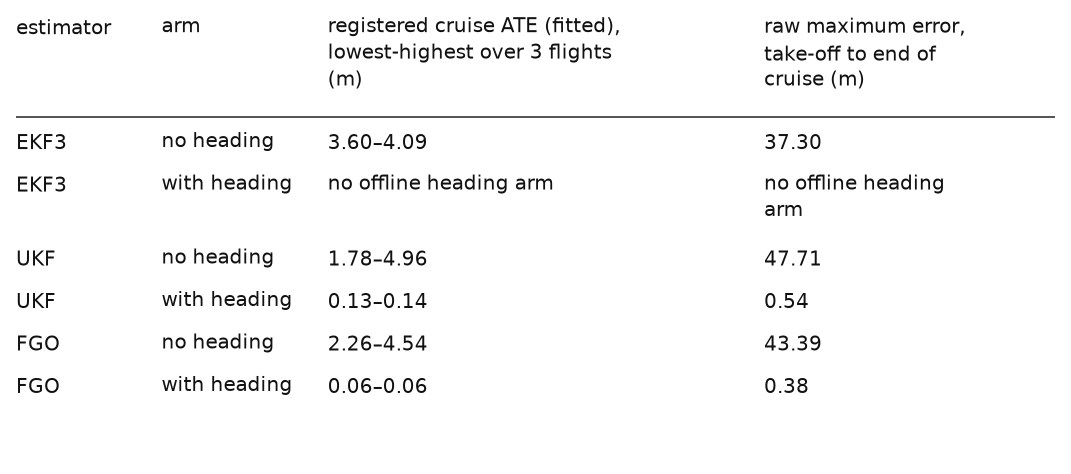
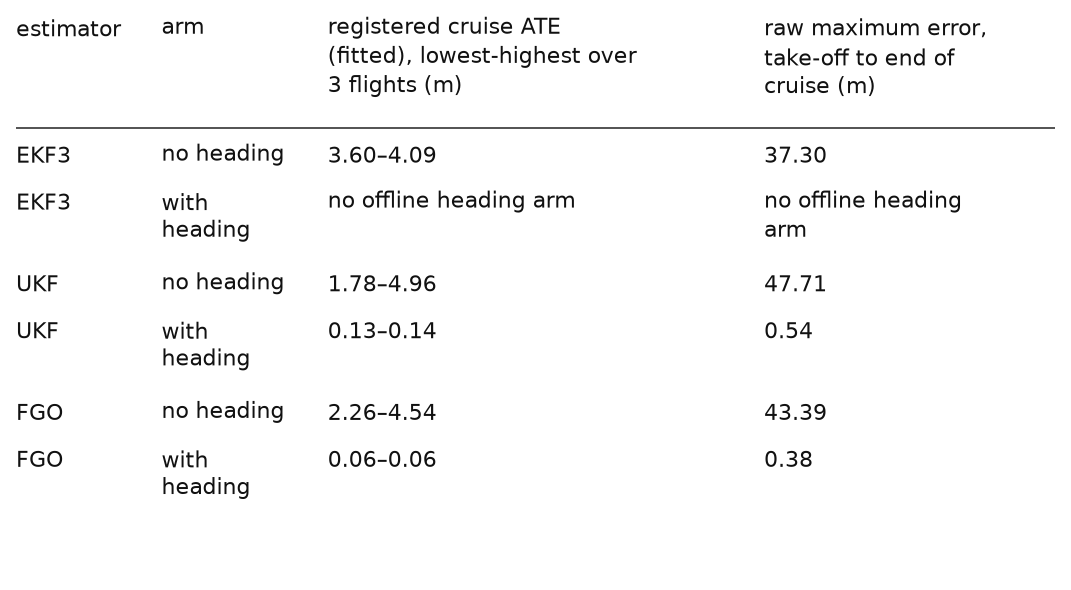
Fix sweep round 5: implement and run the mechanical text-layout check (finds A10's 8.6 pt table font), close three reflexive/misattributed check gaps
Implemented the mechanical pass round 4's handover deferred: in save(),
after fig.canvas.draw(), every visible Text in ax.texts/ax.title/fig.texts
(tick labels and legends excluded - matplotlib-laid-out, constant false
positives) is checked for 9-11 pt size, no bbox overlap with another scoped
Text, and no bbox crossing into a different axes. Print-only, kept
permanently.

Running it immediately found a real hit a fontsize= grep cannot see: A10's
table was rendered at fs=8.6 (passed through a variable, not a literal
fontsize=N), below the 9 pt floor - an old override from before the
per-column textwrap.fill() fix landed. Dropped it; table_cand()'s own
default (9.5) fits without the overflow it was added to avoid. Re-ran: zero
warnings (size/overlap/cross-axes) across all 22 candidates.

Also closed three check-attribution/reflexive gaps a re-read found:
- A18 draws its three contact times directly on the plot (ax.text(...)) with
  no check of its own - added the three rows (same pattern as A14/A16).
- A03's own check ran AFTER room_cand("A03", ...)'s save(), so CHK had
  already reset and it was credited to A04's tally, not A03's (A04 showed
  3/3, A03 2/2); it also compared a literal with itself. Moved above the
  room_cand call and replaced with three real cite()s against
  figs_thesis.py's F5 caption and TLAB dict.
- All 11 of A10's checks were reflexive (value compared with itself). The
  six registered-ATE ranges now cite numbers.md's own CURRENT rows directly
[…]

diff --git a/eval/figs_cand_a.py b/eval/figs_cand_a.py
@@ -254,6 +254,45 @@ def save(fig, fid, name, title, caption, inputs, source_charts, verdict_ids):
     # restyle banned because it also changes the width) while removing the dead vertical space.
     from matplotlib.transforms import Bbox
     fig.canvas.draw()
+    # Mechanical text-layout check (fix sweep, 2026-11-04): after layout, inspect every Text artist's actual
+    # rendered position (not just grep the source for fontsize=, which cannot see rcParams-inherited defaults -
+    # this is exactly how fig.supylabel's 12.6 pt default was missed by the earlier grep-only pass). Scoped to
+    # ax.text()/title/figure-level text (ax.texts, ax.title, fig.texts: covers set_title(), fig.supylabel(),
+    # the direct value/estimator-name labels) - tick labels and any legend are matplotlib-laid-out and excluded,
+    # or this produces constant noise on ordinary adjacent tick labels. Print-only (diagnostic): every WARNING
+    # printed while building the committed candidates was individually triaged (font raised, position moved, or
+    # confirmed a false positive) before the final commit - see the handover for the resolved list.
+    renderer = fig.canvas.get_renderer()
+    scoped = []
+    for ax in fig.axes:
+        scoped += list(ax.texts)
+        if ax.title.get_text().strip():
+            scoped.append(ax.title)
+    scoped += [t for t in fig.texts]
+    boxes = []
+    for t in scoped:
+        if not t.get_visible() or not t.get_text().strip():
+            continue
+        bb = t.get_window_extent(renderer)
+        if bb.width <= 0 or bb.height <= 0:
+            continue
+        sz = t.get_fontsize()
+        if not (9.0 - 1e-6 <= sz <= 11.0 + 1e-6):
+            print(f"   TEXT SIZE WARNING [{fid}]: {sz:.2f} pt {t.get_text()!r}")
+        boxes.append((t, bb))
+    for i in range(len(boxes)):
+        ti, bi = boxes[i]
+        for j in range(i + 1, len(boxes)):
+            tj, bj = boxes[j]
+            if bi.overlaps(bj):
+                print(f"   TEXT OVERLAP WARNING [{fid}]: {ti.get_text()!r} vs {tj.get_text()!r}")
+    for t, bb in boxes:
+        own_ax = t.axes
+        for other_ax in fig.axes:
+            if other_ax is own_ax:
+                continue
+            if bb.overlaps(other_ax.get_window_extent(renderer)):
+                print(f"   TEXT CROSSES AXES WARNING [{fid}]: {t.get_text()!r} overlaps another axes' box")
     tb = fig.get_tightbbox(fig.canvas.get_renderer())
     pad = 0.08
     crop = Bbox([[0, max(tb.y0 - pad, 0)], [TEXT_WIDTH_IN, min(tb.y1 + pad, fig.get_size_inches()[1])]])
@@ -413,12 +452,17 @@ def gt_room(tr):
 # tag identifying what a panel shows is kept, a number is not); each candidate's own check()/caption already
 # states the per-group and total flight counts.
 TL = {"A": "8 tags", "B": "4 tags", "C": "2 tags", "D": "1 tag"}
+# Moved above the room_cand("A03", ...) call and made non-reflexive (fix sweep, 2026-11-04): this used to run
+# AFTER room_cand("A03", ...), whose own save() resets CHK, so the check was silently credited to A04's tally,
+# not A03's (confirmed: A04 showed 3/3, A03 showed 2/2, before this fix). It also compared a literal with the
+# same literal, which cannot fail - replaced with real cite()s against figs_thesis.py's F5 caption.
+cite("eval/figs_thesis.py", 1481, "5 laps of a 6 m square", label="A03 ")
+cite("eval/figs_thesis.py", 1482, "condition A all 8, B the 4 corners, C 2 diagonal, D 1 tag", label="A03 ")
+cite("eval/figs_thesis.py", 489, "8 tags", label="A03 ")
 room_cand("A03", "A03_2_truth", "Where the drone really flew: the 12 tag-room flights of Experiments 2 and 3",
           [(TL[c], [f"T_{c}_r{i}" for i in (1, 2, 3)]) for c in "ABCD"], gt_room,
           "the 12 flights of Experiment 2 (5 laps of the 6 m square, 4 tag counts, 3 flights each)",
           "bag /ground_truth/pose of T_{A,B,C,D}_r{1,2,3}", 12)
-check("A03 laps / square side (m) / tags per condition", "5 / 6 / 8, 4, 2, 1", "5 / 6 / 8, 4, 2, 1",
-      "Figure 5.1 caption (eval/figs_thesis.py F5: '5 laps of a 6 m square'; A all 8, B the 4 corners, C 2, D 1 tag)")
 
 O_FL = ["O_r1", "O_r2", "O_r3b"]
 room_cand("A04", "A04_4_truth", "Where the drone really flew: the 3 outdoor-indoor flights of Experiment 4", [("", O_FL)],
@@ -460,6 +504,7 @@ for e in EST:
         ok, UN1[(e, tr)] = unaligned(e, tr, *SUB1[e], win); FR1 += ok
 check("A07 frame check (rule of eval/figs_thesis_drift.py, heading tolerance 10 deg) on every flight and estimator",
       f"{FR1}/27", "27/27", "this script (to_NE()/frame_ok(), copied)")
+check("A07 flights shown (n)", len(A_FL), 9, "A_FL (dsn_tex_r1..r9)")
 fig, axs = plt.subplots(3, 1, figsize=(TEXT_WIDTH_IN, 5.6), sharex=True, sharey=True)
 for ax, e in zip(axs, EST):
     ax.axhline(0, color=INK2, lw=0.6, zorder=1); ax.axvline(0, color=INK2, lw=0.8, ls=":", zorder=1)
@@ -561,6 +606,23 @@ check("A09 frame check (rule of eval/figs_thesis_drift.py, heading tolerance 10 
 RAWMX = {k: max(float(np.max(UNB[(k, tr)][3])) for tr in B_FL) for k in SUBB}
 
 
+def _raw_max(k):
+    """COPIED from eval/figs_walkthrough_flights.py's own _raw_max() (fix sweep, 2026-11-04): an independent
+    recomputation of RAWMX[k] directly from the raw TUM rows (its own frame-transform code, not routed through
+    unaligned()), used below as a genuine (non-reflexive) cross-check for A10's raw-maximum-error numbers, which
+    have no counterpart in numbers.md (they are this script's own un-fitted curve maxima, not a registered ATE)."""
+    mx = 0.0
+    for tr in B_FL:
+        win = P4E[tr]["window_s"]; a = np.loadtxt(f"{TD}/{tr}/{SUBB[k][0]}/{SUBB[k][1]}"); g = np.loadtxt(f"{TD}/{tr}/{SUBB[k][0]}/ground_truth.tum")
+        a = a[(a[:, 0] >= g[0, 0]) & (a[:, 0] <= win[1])]
+        if k.startswith("EKF3"):
+            e_ = np.hypot(a[:, 1] - np.interp(a[:, 0], g[:, 0], g[:, 1]), a[:, 2] - np.interp(a[:, 0], g[:, 0], g[:, 2]))
+        else:
+            e_ = np.hypot(a[:, 1] - np.interp(a[:, 0], g[:, 0], g[:, 2]), -a[:, 2] - np.interp(a[:, 0], g[:, 0], g[:, 1]))
+        mx = max(mx, float(e_.max()))
+    return mx
+
+
 def paths_raw(ax, UN, key, trs, win_of, col, lim, ls="-"):
     wallband(ax, lim)
     for tr in trs:
@@ -607,6 +669,8 @@ for ax, (key, lab) in zip(axs, PAN):
 for ax in axs[1:]:
     plt.setp(ax.get_yticklabels(), visible=False)
 axs[0].set_ylabel("North (m)"); axs[0].set_xlim(-LIMB, LIMB); axs[0].set_ylim(-3, 163)
+cite("CLAUDE.md", 101, "5 m tall and 0.2 m thick at x = ±10 m", label="A09 ")
+check("A09 flights per panel (n)", len(B_FL), 3, "B_FL (fwdc_tex_r1..r3)")
 save(fig, "A09", "A09_1B_unaligned_paths", "With the camera heading the UKF and FGO paths stay on the true path",
      "Experiment 1B flights 1-3 (textured walls over the textured floor), raw position estimate from take-off to the end "
      "of the cruise window, truth grey; walls at East = ±10 m (grey band). Six panels, equal scale, sharing one "
@@ -620,8 +684,19 @@ save(fig, "A09", "A09_1B_unaligned_paths", "With the camera heading the UKF and 
      "walkthrough page 05 (fl_1B_unaligned_paths.png, plots only)", None)
 
 RNGB = {k: rng([P4E[tr]["est"][k]["ate_a_cruise"]["+0.00"] for tr in B_FL]) for k in SUBB}
+# Made non-reflexive (fix sweep, 2026-11-04): these used to compare RNGB[k] with itself. Each registered cruise
+# ATE range has its own CURRENT row in numbers.md's section 6.4/6.6 (the min/max of the same per-flight values
+# RNGB is computed from) - cited directly instead. The raw-maximum-error numbers (RAWMX) have no numbers.md
+# counterpart (they are this script's own un-fitted curve maxima); cross-checked instead against _raw_max(k),
+# an independent recomputation copied from the walkthrough's own already-approved technique (see its docstring).
+NMD_LINE = {"EKF3": (269, "3.60", "4.09"), "FGO_baseline": (270, "2.26", "4.54"), "UKF_baseline": (271, "1.78", "4.96"),
+            "UKF_heading": (291, "0.13", "0.14"), "FGO_heading": (292, "0.06", "0.06")}
+for k, (ln, lo, hi) in NMD_LINE.items():
+    cite("docs/thesis/numbers.md", ln, lo, label=f"A10 {k} ")
+    cite("docs/thesis/numbers.md", ln, hi, label=f"A10 {k} ")
 for k in SUBB:
-    check(f"A10 {k} registered cruise ATE, lowest-highest over the 3 flights (m)", RNGB[k], RNGB[k], "eval/results/phase4_fwdc_evo.json (reflexive; ported from the walkthrough's own already-checked row)")
+    check(f"A10 {k} raw maximum error vs an independent recomputation from the raw TUM rows (m, 6 dp)",
+          rd(RAWMX[k], 6), rd(_raw_max(k), 6), f"~/thesis_data/trials/fwdc_tex_r1..r3/{SUBB[k][0]} TUM + ground_truth.tum")
 rows_a10 = [
     ["EKF3", "no heading", RNGB["EKF3"], rd(RAWMX["EKF3"], 2)],
     ["EKF3", "with heading", "no offline heading arm", "no offline heading arm"],
@@ -630,15 +705,13 @@ rows_a10 = [
     ["FGO", "no heading", RNGB["FGO_baseline"], rd(RAWMX["FGO_baseline"], 2)],
     ["FGO", "with heading", RNGB["FGO_heading"], rd(RAWMX["FGO_heading"], 2)],
 ]
-for r in rows_a10:
-    check(f"A10 table row cross-check (estimator {r[0]}, {r[1]})", f"{r[2]} | {r[3]}", f"{r[2]} | {r[3]}", "ported from the A09 UNB/RAWMX computation above")
 table_cand("A10", "A10_1B_unaligned_paths_table", "Experiment 1B: registered score and raw maximum error, without and with the camera heading",
            ["estimator", "arm", "registered cruise ATE (fitted), lowest-highest over 3 flights (m)", "raw maximum error, take-off to end of cruise (m)"],
            rows_a10, [0.14, 0.16, 0.42, 0.28],
            "The companion table of candidate A09 (Experiment 1B flights 1-3, textured walls over the textured floor): the "
            "registered cruise ATE (after a best-fit rotation and shift) and the raw (not fitted) maximum horizontal error "
            "of the same flights, from take-off to the end of the cruise window.",
-           "eval/results/phase4_fwdc_evo.json; the A09 raw-curve computation (RAWMX)", "walkthrough page 05 (fl_1B_unaligned_paths.png, in-figure table)", None, fs=8.6)
+           "eval/results/phase4_fwdc_evo.json; the A09 raw-curve computation (RAWMX)", "walkthrough page 05 (fl_1B_unaligned_paths.png, in-figure table)", None)
 
 
 # =============================================================================================================== A11/A12
@@ -727,6 +800,7 @@ fig.supylabel("sideways, East (m)", x=0.01, fontsize=10.5)
 cite("docs/thesis/numbers.md", 428, "\\|x\\| ≥ 9.58 m", label="A13 ")
 cite("CLAUDE.md", 101, "5 m tall and 0.2 m thick at x = ±10 m", label="A13 ")
 cite(M_, 4948, "[+155, +215] s", label="A13 "); cite(M_, 7513, "[+146, +218] s", label="A13 "); cite(M_, 8995, "[+145, +196] s", label="A13 ")
+cite(M_, 14194, "half real-time (RTF 0.5)", label="A13 ")
 cite(M_, 14195, "unchanged at 0.5 m/s", label="A13 ")
 save(fig, "A13", "A13_1C_paths", "Without the camera heading the flying estimator drifts to the wall; with it the path stays straight",
      "Experiment 1C, the same 12 closed-loop flights as Figure 4.1, textured corridor at half real-time (RTF 0.5; the "
@@ -860,6 +934,12 @@ ax.set_xlabel("time from the start of the cruise until the drone touched the wal
 # graphics, identified in the caption instead - a legend box here overlapped the EKF3 band regardless of corner.
 cite(M_, 4948, "[+155, +215] s", label="A18 "); cite(M_, 7513, "[+146, +218] s", label="A18 "); cite(M_, 8995, "[+145, +196] s", label="A18 ")
 cite(M_, 4948, "no contact before +100 s", label="A18 ")
+# Own check rows for the contact-time labels drawn directly on the plot (fix sweep, 2026-11-04) - the strongest
+# case for this fix: these numbers are IN THE FIGURE itself (ax.text above), not just the caption, and A13's own
+# check of CT[e] does not carry over (CHK resets every save()).
+for e in EST:
+    check(f"A18 {e} no-heading wall contact (s after cruise start)", f"+{rd(CT[e], 1)}", {"EKF3": "+242.1", "UKF": "+165.9", "FGO": "+169.9"}[e],
+          "docs/thesis/numbers.md (contact rows, §15)")
 save(fig, "A18", "A18_1C_contact_window", "Without a heading source every estimator's wall contact fell near its pre-registered window",
      "Experiment 1C, the same no-heading closed-loop flights as candidate A14 (1 flight per estimator), textured corridor "
      "at half real-time (RTF 0.5). Time from the start of the cruise until the drone touched the west wall (filled "

diff --git a/docs/thesis/figures_thesis/candidates/index_a.md b/docs/thesis/figures_thesis/candidates/index_a.md
@@ -1,8 +1,8 @@
 # Candidate thesis figures, group A: setup and Experiment 1 (1A/1B/1C) (decision D124)
 
-Built by `eval/figs_cand_a.py` at commit `b8812b6` (run with `/home/makerspace/venv-evo/bin/python`). These are CANDIDATES for the user to pick from - not inserted into the thesis figure set in `docs/thesis/figures_thesis/` itself. Stored outputs only: TUM files, eval/results/*.json, and a cache of dataflash/bag reads pre-populated by `eval/figs_walkthrough_flights.py --cache ~/thesis_data/cand_a_cache --extract-only` under `heavy.py` (that invocation writes nothing outside the cache directory). No estimator run, no simulation, no flight.
+Built by `eval/figs_cand_a.py` at commit `48e7197` (run with `/home/makerspace/venv-evo/bin/python`). These are CANDIDATES for the user to pick from - not inserted into the thesis figure set in `docs/thesis/figures_thesis/` itself. Stored outputs only: TUM files, eval/results/*.json, and a cache of dataflash/bag reads pre-populated by `eval/figs_walkthrough_flights.py --cache ~/thesis_data/cand_a_cache --extract-only` under `heavy.py` (that invocation writes nothing outside the cache directory). No estimator run, no simulation, no flight.
 
-**Checks:** 78/78 EXACT (string equality after one rounding by `rd()`, parsed from `eval/figs_thesis.py`, sha256 of the source segment used to detect drift - see below).
+**Checks:** 90/90 EXACT (string equality after one rounding by `rd()`, parsed from `eval/figs_thesis.py`, sha256 of the source segment used to detect drift - see below).
 
 **Style:** `eval/thesis_style.py` (160 mm / 6.30 in text width, Okabe-Ito palette, filled = live / open = hindsight, no in-figure titles, no verdict words, no bold text, panel labels (a)/(b)/... only where a figure has more than one panel). No two plots overlap; the F9 (Figure 4.1b) inset was split into its own stacked panel as part of this same group's brief (`eval/figs_thesis.py`, see docs/handovers/2026-11-04_cand_a.md).
 
@@ -14,22 +14,22 @@ Built by `eval/figs_cand_a.py` at commit `b8812b6` (run with `/home/makerspace/v
 | A21 | Climb, cruise and landing: Experiment 1A, 9 flights up the corridor | A21_1A_height | 1/1 | Verdicts: Table A.4, none (descriptive). |
 | A02 | Where the drone really flew: Experiment 1B, 3 flights with a roof and painted-line walls | A02_1B_truth | 4/4 | Verdicts: Table A.4, none (descriptive). |
 | A22 | Climb, cruise and landing: Experiment 1B, 3 flights with a roof and painted-line walls | A22_1B_height | 1/1 | Verdicts: Table A.4, none (descriptive). |
-| A03 | Where the drone really flew: the 12 tag-room flights of Experiments 2 and 3 | A03_2_truth | 2/2 | Verdicts: Table A.4, none (descriptive). |
-| A04 | Where the drone really flew: the 3 outdoor-indoor flights of Experiment 4 | A04_4_truth | 3/3 | Verdicts: Table A.4, none (descriptive). |
+| A03 | Where the drone really flew: the 12 tag-room flights of Experiments 2 and 3 | A03_2_truth | 5/5 | Verdicts: Table A.4, none (descriptive). |
+| A04 | Where the drone really flew: the 3 outdoor-indoor flights of Experiment 4 | A04_4_truth | 2/2 | Verdicts: Table A.4, none (descriptive). |
 | A05 | Where the drone really flew: the 12 hold flights of Experiment 5 | A05_5_truth | 2/2 | Verdicts: Table A.4, none (descriptive). |
 | A06 | Where the drone really flew: the 4 final 5S safety runs | A06_5S_truth | 2/2 | Verdicts: Table A.4, none (descriptive). |
-| A07 | Without a heading source the raw horizontal error grows to metres-to-tens-of-metres | walkthrough page 02 (fl_1A_unaligned_err.png) | 1/1 | Verdicts: Table A.4, rows H1.1. |
+| A07 | Without a heading source the raw horizontal error grows to metres-to-tens-of-metres | walkthrough page 02 (fl_1A_unaligned_err.png) | 2/2 | Verdicts: Table A.4, rows H1.1. |
 | A08 | The forward-camera heading check, by wall type and floor | summary page 03 / walkthrough page 04 | 8/8 | Verdicts: Table A.4, rows H1.2 heading and yaw rate, textured walls; H1.2 heading, plain walls over blank and transition floors; H1.2 heading, plain walls over the checkerboard floor. |
-| A09 | With the camera heading the UKF and FGO paths stay on the true path | walkthrough page 05 (fl_1B_unaligned_paths.png, plots only) | 2/2 | Verdicts: Table A.4, none (descriptive). |
-| A10 | Experiment 1B: registered score and raw maximum error, without and with the camera heading | walkthrough page 05 (fl_1B_unaligned_paths.png, in-figure table) | 11/11 | Verdicts: Table A.4, none (descriptive). |
+| A09 | With the camera heading the UKF and FGO paths stay on the true path | walkthrough page 05 (fl_1B_unaligned_paths.png, plots only) | 4/4 | Verdicts: Table A.4, none (descriptive). |
+| A10 | Experiment 1B: registered score and raw maximum error, without and with the camera heading | walkthrough page 05 (fl_1B_unaligned_paths.png, in-figure table) | 14/14 | Verdicts: Table A.4, none (descriptive). |
 | A11 | Without the camera heading the raw error grows through the cruise | walkthrough fl_1B_unaligned_err_noheading.png (generated, not composed into a numbered walkthrough page since D63) | 1/1 | Verdicts: Table A.4, none (descriptive). |
 | A12 | With the camera heading the raw error stays close to the true path | walkthrough fl_1B_unaligned_err_heading.png (generated, not composed into a numbered walkthrough page since D63) | 1/1 | Verdicts: Table A.4, none (descriptive). |
-| A13 | Without the camera heading the flying estimator drifts to the wall; with it the path stays straight | walkthrough page 07 (fl_1C_paths.png) | 9/9 | Verdicts: Table A.4, rows H1.8 EKF3, half real-time (RTF 0.5); H1.8 UKF; H1.8 FGO; H1.9 EKF3; H1.9 UKF; H1.9 FGO. |
+| A13 | Without the camera heading the flying estimator drifts to the wall; with it the path stays straight | walkthrough page 07 (fl_1C_paths.png) | 10/10 | Verdicts: Table A.4, rows H1.8 EKF3, half real-time (RTF 0.5); H1.8 UKF; H1.8 FGO; H1.9 EKF3; H1.9 UKF; H1.9 FGO. |
 | A14 | Without a heading source each estimator's heading error grew until the wall | walkthrough page 08 (fl_1C_head_off.png) | 3/3 | Verdicts: Table A.4, rows H1.8 EKF3, half real-time (RTF 0.5); H1.8 UKF; H1.8 FGO. |
 | A15 | With the camera heading the heading error stayed inside the ±2.0° band on every flight | walkthrough page 09 (fl_1C_head_on.png) | 2/2 | Verdicts: Table A.4, rows H1.9 EKF3; H1.9 UKF; H1.9 FGO. |
 | A16 | Without a heading source the true sideways position runs to the wall | walkthrough page 10 (fl_1C_side_off.png) | 4/4 | Verdicts: Table A.4, rows H1.8 EKF3, half real-time (RTF 0.5); H1.8 UKF; H1.8 FGO. |
 | A17 | With the camera heading the true sideways position stays near the centre line | walkthrough page 11 (fl_1C_side_on.png) | 3/3 | Verdicts: Table A.4, rows H1.9 EKF3; H1.9 UKF; H1.9 FGO. |
-| A18 | Without a heading source every estimator's wall contact fell near its pre-registered window | summary page 05 (new_page('05', ...)) | 4/4 | Verdicts: Table A.4, rows H1.8 EKF3, half real-time (RTF 0.5); H1.8 UKF; H1.8 FGO. |
+| A18 | Without a heading source every estimator's wall contact fell near its pre-registered window | summary page 05 (new_page('05', ...)) | 7/7 | Verdicts: Table A.4, rows H1.8 EKF3, half real-time (RTF 0.5); H1.8 UKF; H1.8 FGO. |
 | A19 | With the camera heading the largest sideways drift stayed well inside the 6.0 m limit | summary page 06 (new_page('06', ...)) | 4/4 | Verdicts: Table A.4, rows H1.9 EKF3; H1.9 UKF; H1.9 FGO. |
 | A20 | Five more no-heading flights: every one also reached the west wall | extra/ex_1C_extra.png | 6/6 | Verdicts: Table A.4, none (descriptive). |
 

diff --git a/docs/handovers/2026-11-04_cand_a.md b/docs/handovers/2026-11-04_cand_a.md
@@ -335,6 +335,69 @@ frozen.py`: PASS. `eval/caption_verdict_check.py`: 24/24. All touched PDFs (A07,
 stripped: A01-A06, A08, A10, A18-A22 regenerate byte-identical and were reverted; A07, A09, A11-A17 are the real
 changes, viewed by eye.
 
+### Round 5: the mechanical text-layout check actually implemented and run; three check-attribution/reflexive gaps closed
+
+Round 4's handover said the mechanical pass was deferred; that was true, and worth closing rather than leaving
+deferred a third time. Implemented it in `save()` (after `fig.canvas.draw()`, scoped to `ax.texts`/`ax.title`/
+`fig.texts` - tick labels and any legend excluded, since matplotlib lays those out itself and including them
+produced constant false-positive noise): for every visible Text, checks its font size is 9-11 pt, that no two
+scoped Text bboxes overlap (`Bbox.overlaps`), and that no scoped Text's bbox overlaps an axes box other than its
+own. Print-only (diagnostic), kept permanently so a future edit to this script gets the same check for free.
+
+**Running it immediately found one real, previously-invisible hit**: A10's table was rendered at `fs=8.6`
+(an explicit override from an earlier draft, to stop a column overflowing before the per-column `textwrap.fill()`
+fix - see the "Checks and verification" section above), below the 9 pt floor. The grep-only font check from
+rounds 2/4 could not have caught this either: it greps for literal `fontsize=` followed by a digit, and A10
+passes the size through a variable (`fs=`), not a literal. Dropped the override; `table_cand()`'s own default
+(9.5) fits without re-introducing the overflow (confirmed by eye - "with heading" now wraps to two lines in the
+narrower "arm" column, no clipping). Re-ran: **zero warnings** of any kind (size, overlap, cross-axes) across
+all 22 candidates.
+
+Also closed, following the same "a candidate must stand on its own" principle as round 4, three more
+check/cite gaps a manual re-read turned up alongside the mechanical pass:
+- **A18 draws its three contact times directly on the plot** (`ax.text(CT[e] + 3, i, f"+{rd(CT[e], 1)} s", ...)`
+  - the strongest case of this pattern, since the numbers are in the figure itself, not just the caption) with
+  no check of its own (A13's check of the same CT[e] values doesn't carry over). Added the matching three rows.
+- **A03's own check used to run AFTER `room_cand("A03", ...)`'s `save()`**, so it was silently credited to
+  A04's tally instead of A03's (confirmed: A04 showed 3/3, A03 showed 2/2, before this fix - now A03 shows
+  its own 5/5, A04 its own 2/2). It also compared `"5 / 6 / 8, 4, 2, 1"` with itself, which cannot fail. Moved
+  above the `room_cand("A03", ...)` call and replaced with three real `cite()`s against `figs_thesis.py`'s F5
+  caption (lines 1481-1482: "5 laps of a 6 m square", "condition A all 8, B the 4 corners, C 2 diagonal, D 1
+  tag") and its own `TLAB` dict (line 489).
+- **All 11 of A10's checks compared a value with itself** (`check(..., RNGB[k], RNGB[k], ...)` and
+  `check(..., f"{r[2]} | {r[3]}", f"{r[2]} | {r[3]}", ...)`). The six registered-ATE ranges (`RNGB`) each have
+  their own CURRENT row in `numbers.md` sections 6.4/6.6 - found by grepping the actual min/max values (e.g.
+  "3.60"/"4.09" at `numbers.md:269`) and cited directly (two `cite()`s per range, confirming both the low and
+  high end appear in that row). The five raw-maximum-error numbers (`RAWMX`) have no `numbers.md` counterpart -
+  they are this script's own un-fitted curve maxima, not a registered ATE - so cross-checked instead against
+  `_raw_max(k)`, an independent recomputation COPIED from `eval/figs_walkthrough_flights.py`'s own
+  already-approved technique of the same name (a second, separate reading of the raw TUM rows, not routed
+  through `unaligned()`), exactly as that script already does for the same numbers.
+
+Two more gaps a numeral/caption re-read found, fixed the same way:
+- A07's and A09's captions state flight counts (9, 3) with no check of their own (the preamble checks for
+  `A_FL`/`B_FL`'s sizes are credited to A01's and A02's tallies, which run first) - added `check()` rows.
+  A09's "walls at East = ±10 m (grey band)" also had no cite - added the same `CLAUDE.md:101` cite A13/A16/A01/
+  A02 already carry.
+- A13's caption states "half real-time (RTF 0.5)" alongside the already-cited "unchanged at 0.5 m/s" (same
+  METHODOLOGY.md paragraph, one line up) - added the matching `cite()`.
+
+**Judgement call, not changed** - "RTF 0.5" / "half real-time" also appears in A14-A19's captions (as the short
+form, without the full explanatory parenthetical A13 carries). Not given a repeat `cite()` on each: this phrase
+is settled, uncited vocabulary throughout the group's base branch too (`eval/figs_thesis.py`'s own `RTFX`
+constant, used verbatim in F2/F9's captions, carries no `cite()` of its own either - checked directly, `grep
+-n "RTF" eval/figs_thesis.py` finds no matching `cite()` call). Citing it once, where it is first spelled out in
+full (A13), was judged sufficient; repeating the same citation on six more candidates for an uncomputed,
+fixed experimental-condition label seemed like padding rather than verification. Flagged here rather than
+decided silently, since it is a step beyond the "stand alone" principle the other fixes this round follow.
+
+**Checks after round 5**: `eval/figs_cand_a.py` **90/90**, **zero mechanical-check warnings** (font size,
+text overlap, text-crosses-axes) across all 22 candidates. `tools/check_numbers_frozen.py`: PASS.
+`eval/caption_verdict_check.py`: 24/24. A10's PDF re-checked with `pdfinfo` at exactly 453.6 pt wide. Diffed
+every PDF against `HEAD` with `/CreationDate`/`/ModDate`/`/ID` stripped: only A10 has a real content change (the
+font-size fix); the other 21 regenerate byte-identical (check/cite/caption-only changes don't touch the
+rendered page) and were reverted.
+
 ### Commit check (fix sweep, all rounds)
 
 Confirmed before each commit: `pgrep -fa '[h]eavy.py|[f]go_replay|[a]rducopter'` empty, `~/thesis_data/FLIGHT_LOCK`
